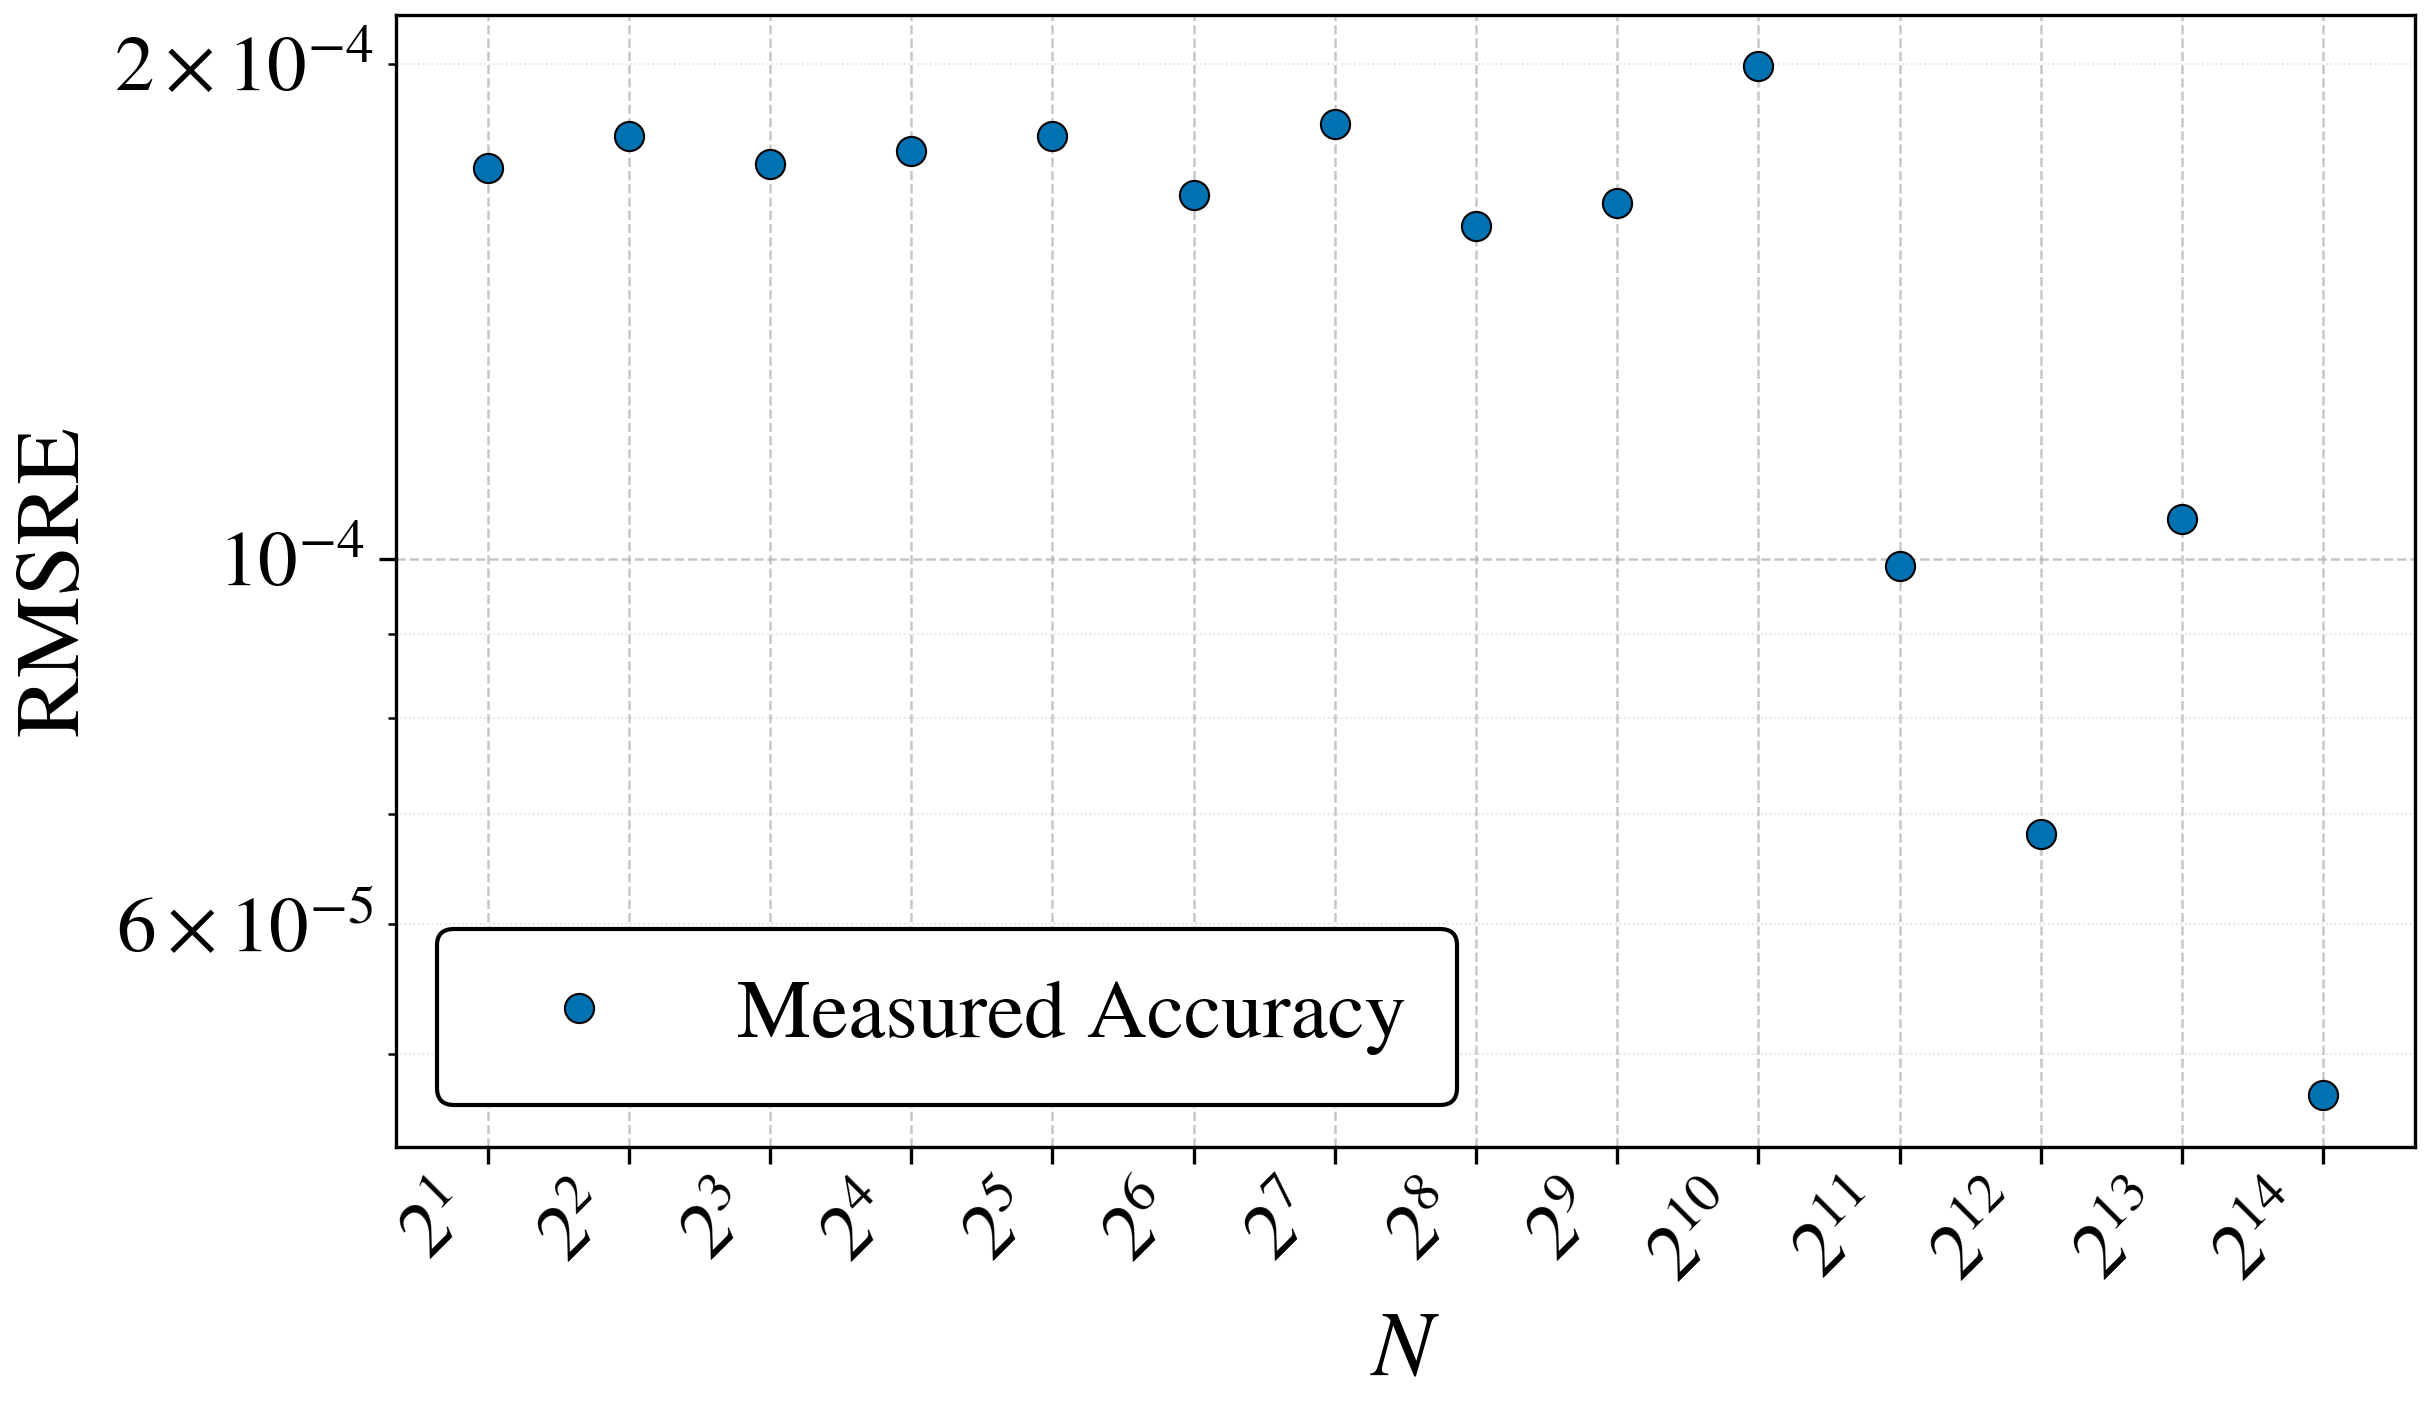
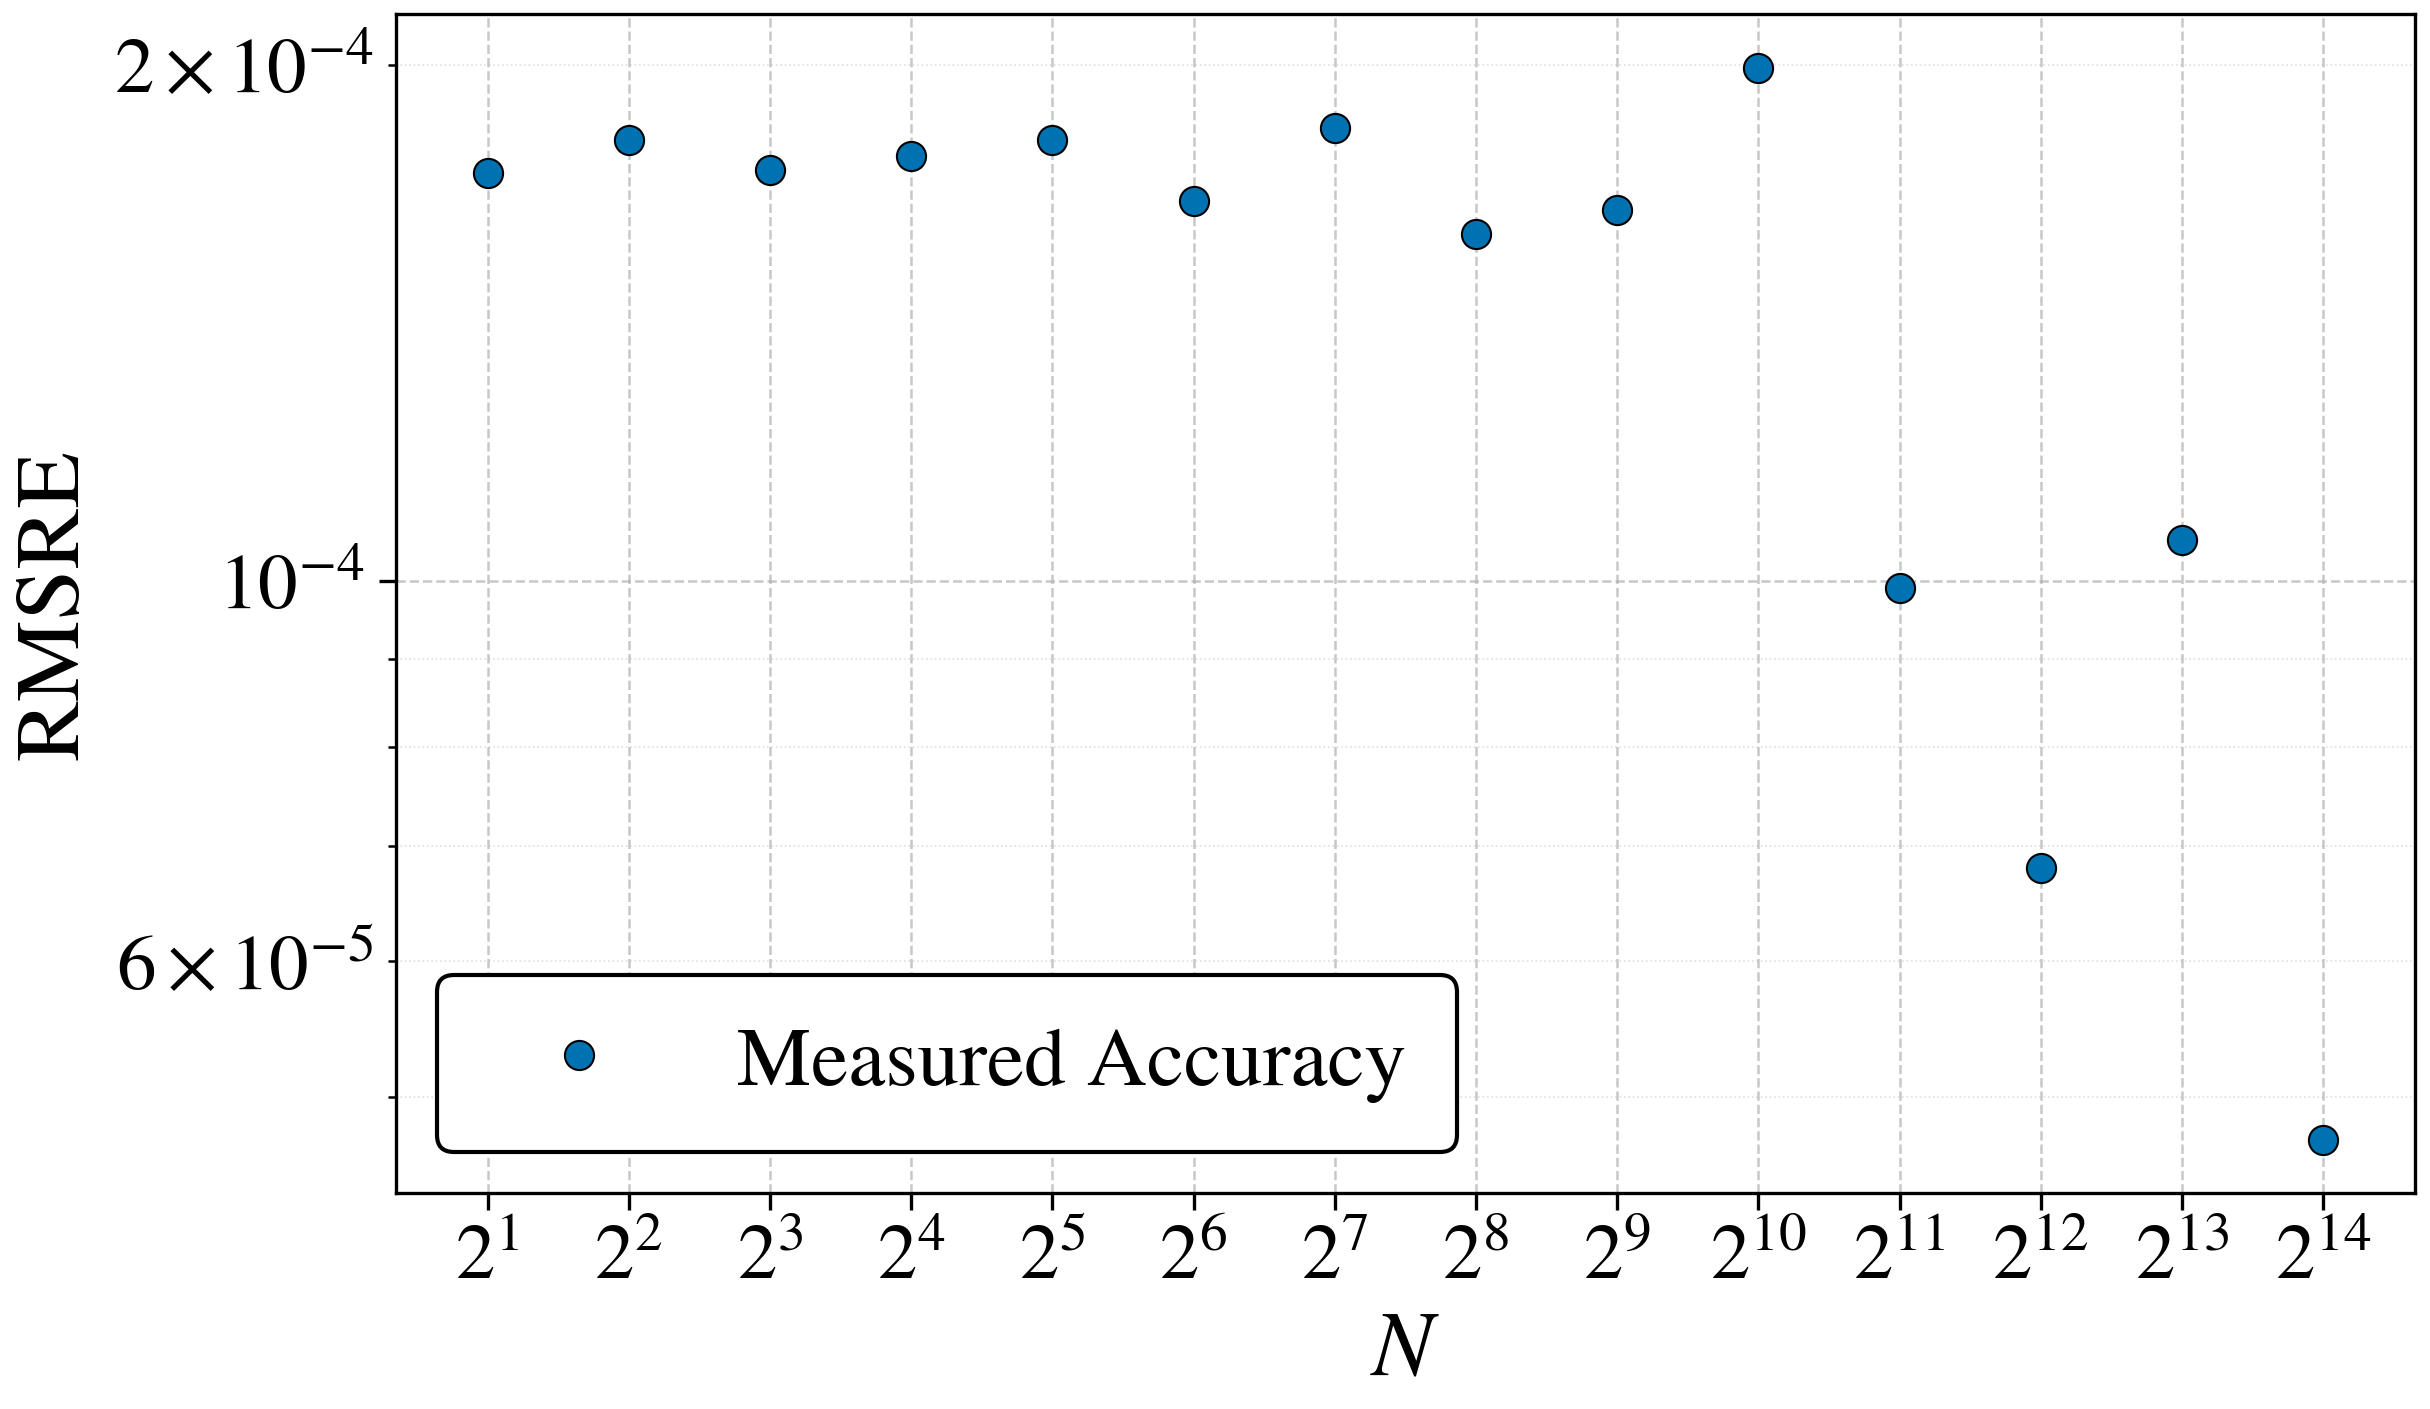
m

diff --git a/evaluation/layernorm/N_sweep/scripts/plot_resources.py b/evaluation/layernorm/N_sweep/scripts/plot_resources.py
@@ -208,25 +208,26 @@ def sparse_labels(ticks: np.ndarray, axis_min: float, axis_max: float,
 
     On a *linear* axis the low powers of two (2, 4, 8, 16, ...) collapse toward
     the origin, so labelling every one would overprint an unreadable smear at the
-    left. This walks the ticks left-to-right and keeps a numeric label only when
-    the tick is at least ``min_frac`` of the axis span past the previous *labelled*
-    tick; intervening ticks still draw a grid line but carry an empty label. The
-    largest tick is always labelled so the axis states its full extent. Returns a
+    left. This walks the ticks left-to-right and keeps a label only when the tick
+    is at least ``min_frac`` of the axis span past the previous *labelled* tick;
+    intervening ticks still draw a grid line but carry an empty label. The largest
+    tick is always labelled so the axis states its full extent. Kept ticks are
+    labelled as powers of two (``2^k``) to match the base-2 grid locus. Returns a
     label string per tick (``""`` for the suppressed ones), parallel to ``ticks``.
     """
     span = axis_max - axis_min
     if span <= 0 or ticks.size == 0:
-        return [str(int(t)) for t in ticks]
+        return [pow2_label(t) for t in ticks]
     min_gap = min_frac * span
     labels = [""] * ticks.size
     last_labelled = -np.inf
     for i, t in enumerate(ticks):
         if t - last_labelled >= min_gap:
-            labels[i] = str(int(t))
+            labels[i] = pow2_label(t)
             last_labelled = t
     # Guarantee the largest tick is labelled (it anchors the axis extent); if the
     # greedy pass already labelled it this is a no-op.
-    labels[-1] = str(int(ticks[-1]))
+    labels[-1] = pow2_label(ticks[-1])
     return labels
 
 
@@ -303,10 +304,11 @@ def draw_lut_axis(
     if log_x:
         # Base-2 log x-axis (N is a power of two): one major tick per sampled N,
         # labelled as a power of two (2^k) to match the base-2 axis, base-2 minor
-        # ticks suppressed.
+        # ticks suppressed. Labels sit horizontally (the 2^k form is compact
+        # enough not to need slanting).
         ax.set_xscale("log", base=2)
         ax.set_xticks(n_vals)
-        ax.set_xticklabels([pow2_label(n) for n in n_vals], rotation=45, ha="right")
+        ax.set_xticklabels([pow2_label(n) for n in n_vals])
         ax.xaxis.set_minor_locator(NullLocator())
     elif linear_grid == "pow2":
         # Linear x-axis with a base-2 (log-spaced) grid: the axis scale stays
@@ -321,9 +323,7 @@ def draw_lut_axis(
         ax.set_xlim(left=0, right=n_max * 1.03)
         pow2 = power_of_two_ticks(n_max)
         ax.xaxis.set_major_locator(FixedLocator(pow2))
-        ax.set_xticklabels(
-            sparse_labels(pow2, 0.0, n_max * 1.03), rotation=45, ha="right"
-        )
+        ax.set_xticklabels(sparse_labels(pow2, 0.0, n_max * 1.03))
         ax.xaxis.set_minor_locator(NullLocator())
     else:  # linear_grid == "round"
         # Linear x-axis with evenly-spaced round ticks chosen by matplotlib

diff --git a/evaluation/layernorm/N_sweep/scripts/plot_accuracy.py b/evaluation/layernorm/N_sweep/scripts/plot_accuracy.py
@@ -240,10 +240,11 @@ def plot(label: str, color: str, marker: str, fit: bool,
 
     # Show every sampled N as a major tick, labelled as a power of two (2^k) to
     # match the base-2 log axis, and suppress the base-2 minor ticks so the axis
-    # stays uncluttered.
+    # stays uncluttered. Labels sit horizontally (the 2^k form is compact enough
+    # not to need slanting).
     all_n = sorted(set(n_vals))
     ax.set_xticks(all_n)
-    ax.set_xticklabels([pow2_label(n) for n in all_n], rotation=45, ha="right")
+    ax.set_xticklabels([pow2_label(n) for n in all_n])
     ax.xaxis.set_minor_locator(NullLocator())
 
     # Decade major grid on the y-axis plus faint minor dec.-subdivisions so the
